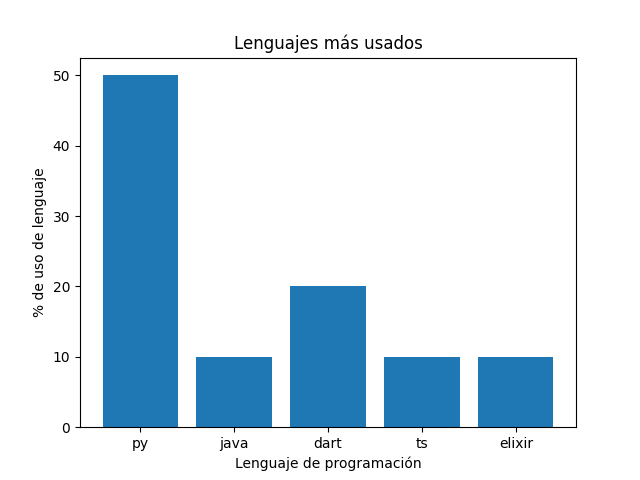
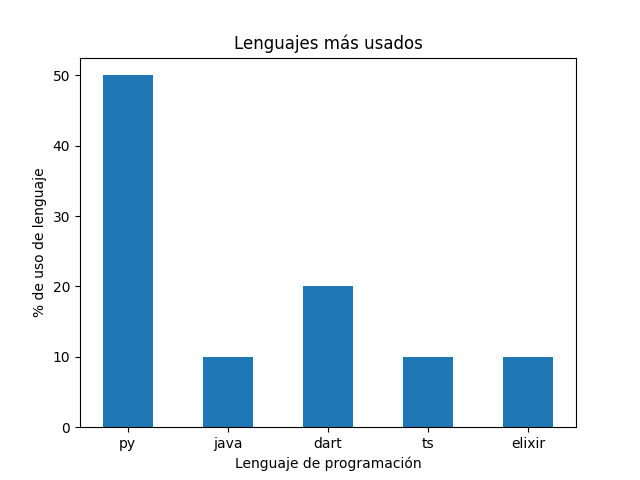
grafico

diff --git a/Clases3/grafico/graficoBarras.py b/Clases3/grafico/graficoBarras.py
@@ -3,8 +3,9 @@
 import matplotlib.pyplot as plt 
 lenguaje = ['py', 'java', 'dart', 'ts', 'elixir']
 encuesta = [50,10,20,10,10]
-plt.bar(lenguaje, encuesta)
+plt.bar(lenguaje, encuesta, width= 0.5)
 ###############################
+
 plt.title('Lenguajes más usados')
 plt.xlabel('Lenguaje de programación')
 plt.ylabel('% de uso de lenguaje')
